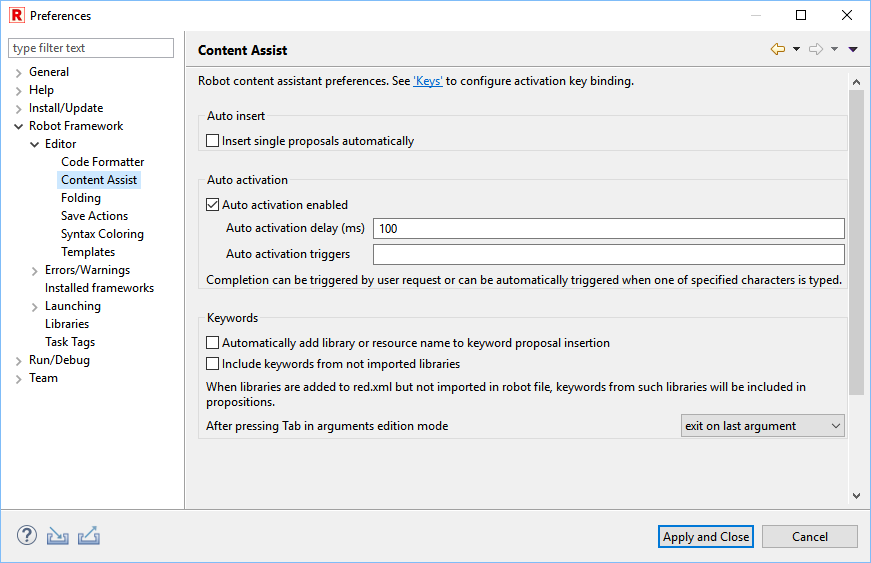
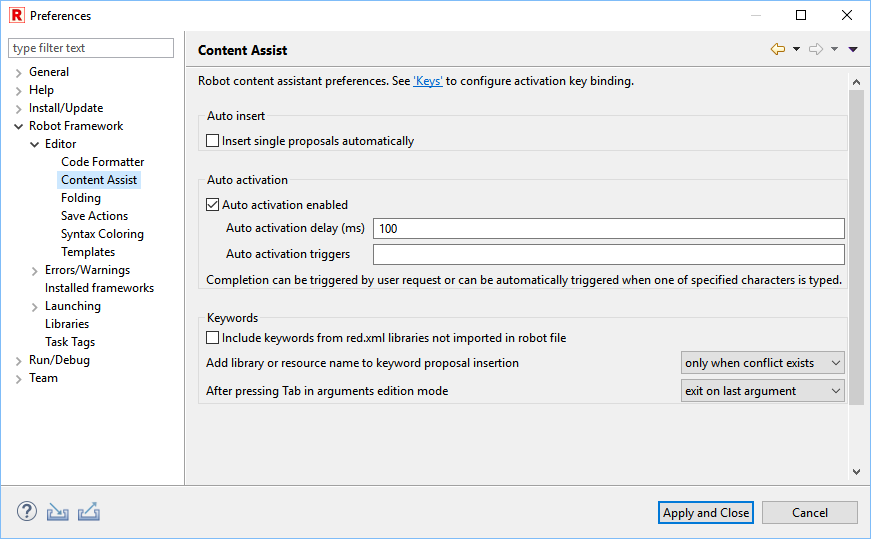
RED-1319 documentation update

diff --git a/src/Eclipse-IDE/org.robotframework.ide.eclipse.main.plugin.doc.user/help/user_guide/working_with_RED/content_assist.html b/src/Eclipse-IDE/org.robotframework.ide.eclipse.main.plugin.doc.user/help/user_guide/working_with_RED/content_assist.html
@@ -29,9 +29,10 @@ If single proposals insertion is enabled, code assistant will choose and insert 
 When auto activation is enabled, triggers and delay can be specified to automatically show assist window when one of defined characters is typed.<br>
 
 <br><b>Keywords</b><br>
-It can also be configured if library/resource prefix should be always used when accepting content proposal.<br>
-Moreover, keyword propositions from libraries available in red.xml, but not imported in robot file, can be enabled. Library import will be added automatically when such proposal is accepted.<br>
-Another option is Tab behavior for automatically added arguments in source view. Cycle between arguments or exit on last argument can be chosen.
+Options in this section allow to:<br>
+Enable keyword propositions from libraries available in red.xml, but not imported in robot file. Library import will be added automatically when such proposal is accepted.<br>
+Configure library/resource prefix addition strategy. Such prefix can be enabled/disabled or enabled only if keyword conflict exist.<br>
+Specify "Tab" behavior for automatically added arguments in source view. Cycle between arguments or exit on last argument can be chosen.
 <br><br><img src="images/content-assist-pref.png"><br>
 
 </body>
